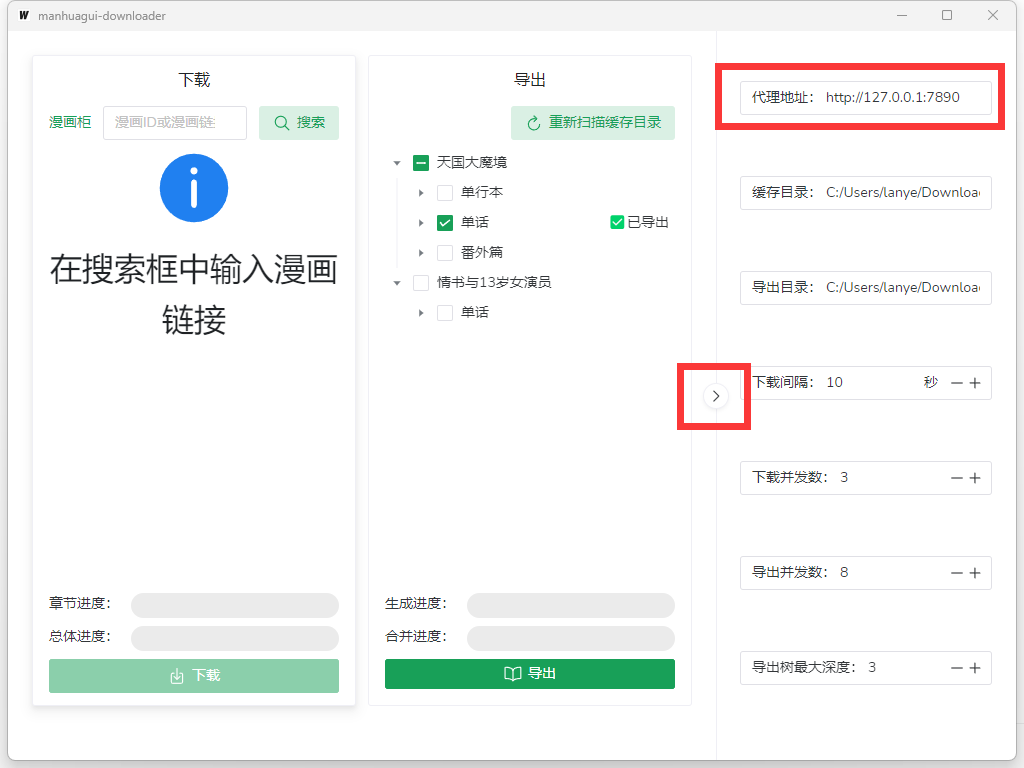
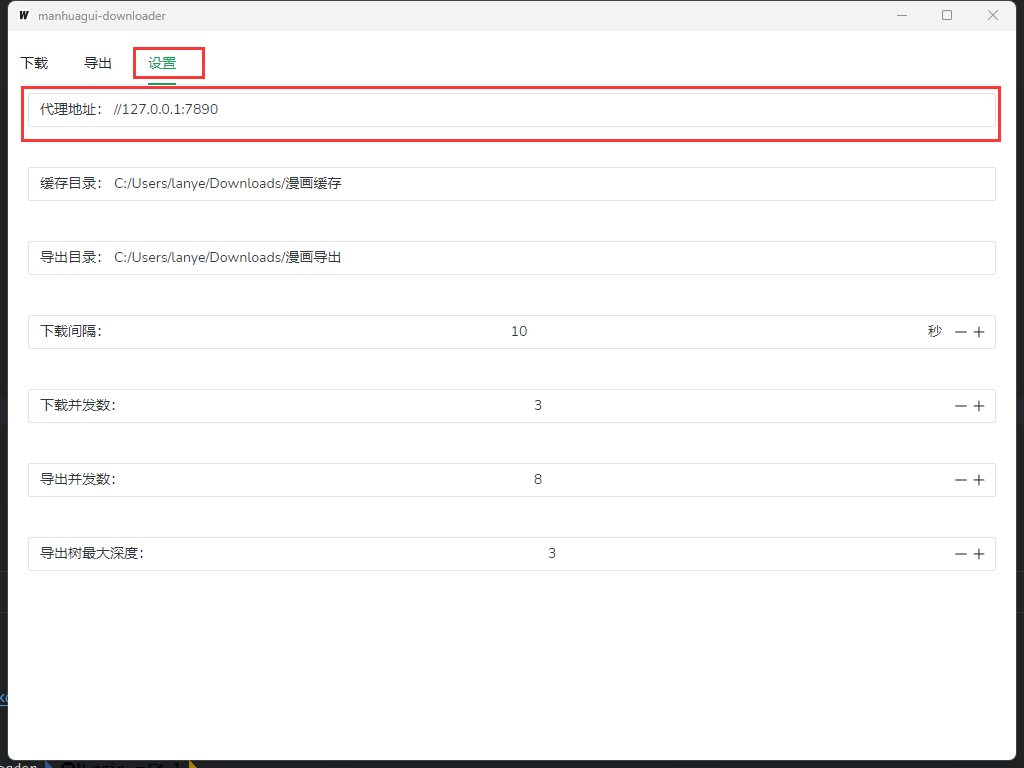
docs: 修改README

diff --git a/README.md b/README.md
@@ -20,9 +20,9 @@
 
 ### 注意
 
-中国大陆访问 [漫画柜](https://www.manhuagui.com) 是需要代理的，默认的代理为`http://127.0.0.1:7890`，即clash默认的代理地址
+中国大陆访问 [漫画柜](https://www.manhuagui.com) 是需要代理的，每次打开软件时会自动检测并使用系统代理
 
-如果需要修改可以点击右侧的箭头打开参数设置自行修改，清空则不使用代理
+可以前往 **设置** -> **代理地址** 调整，清空则不使用代理
 
 ![image-20240519005528352](md/settings.png)
 
